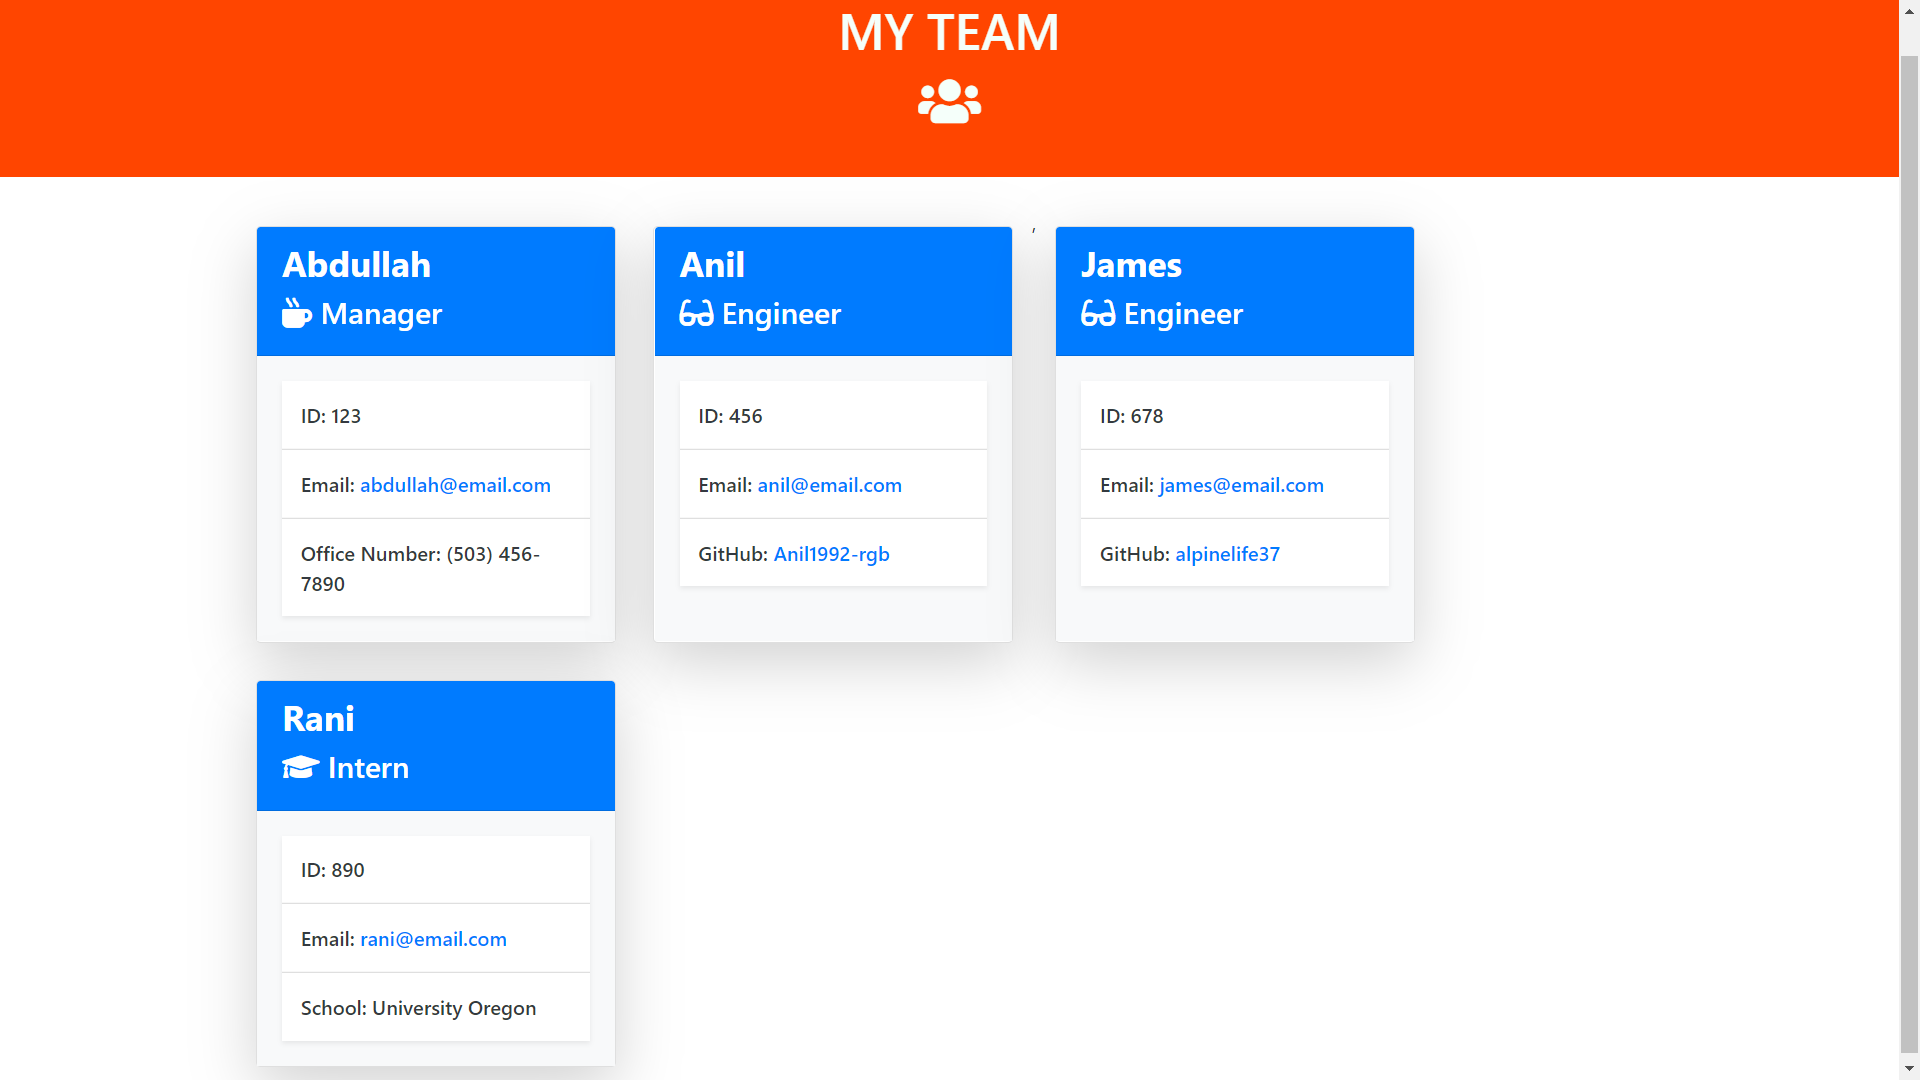
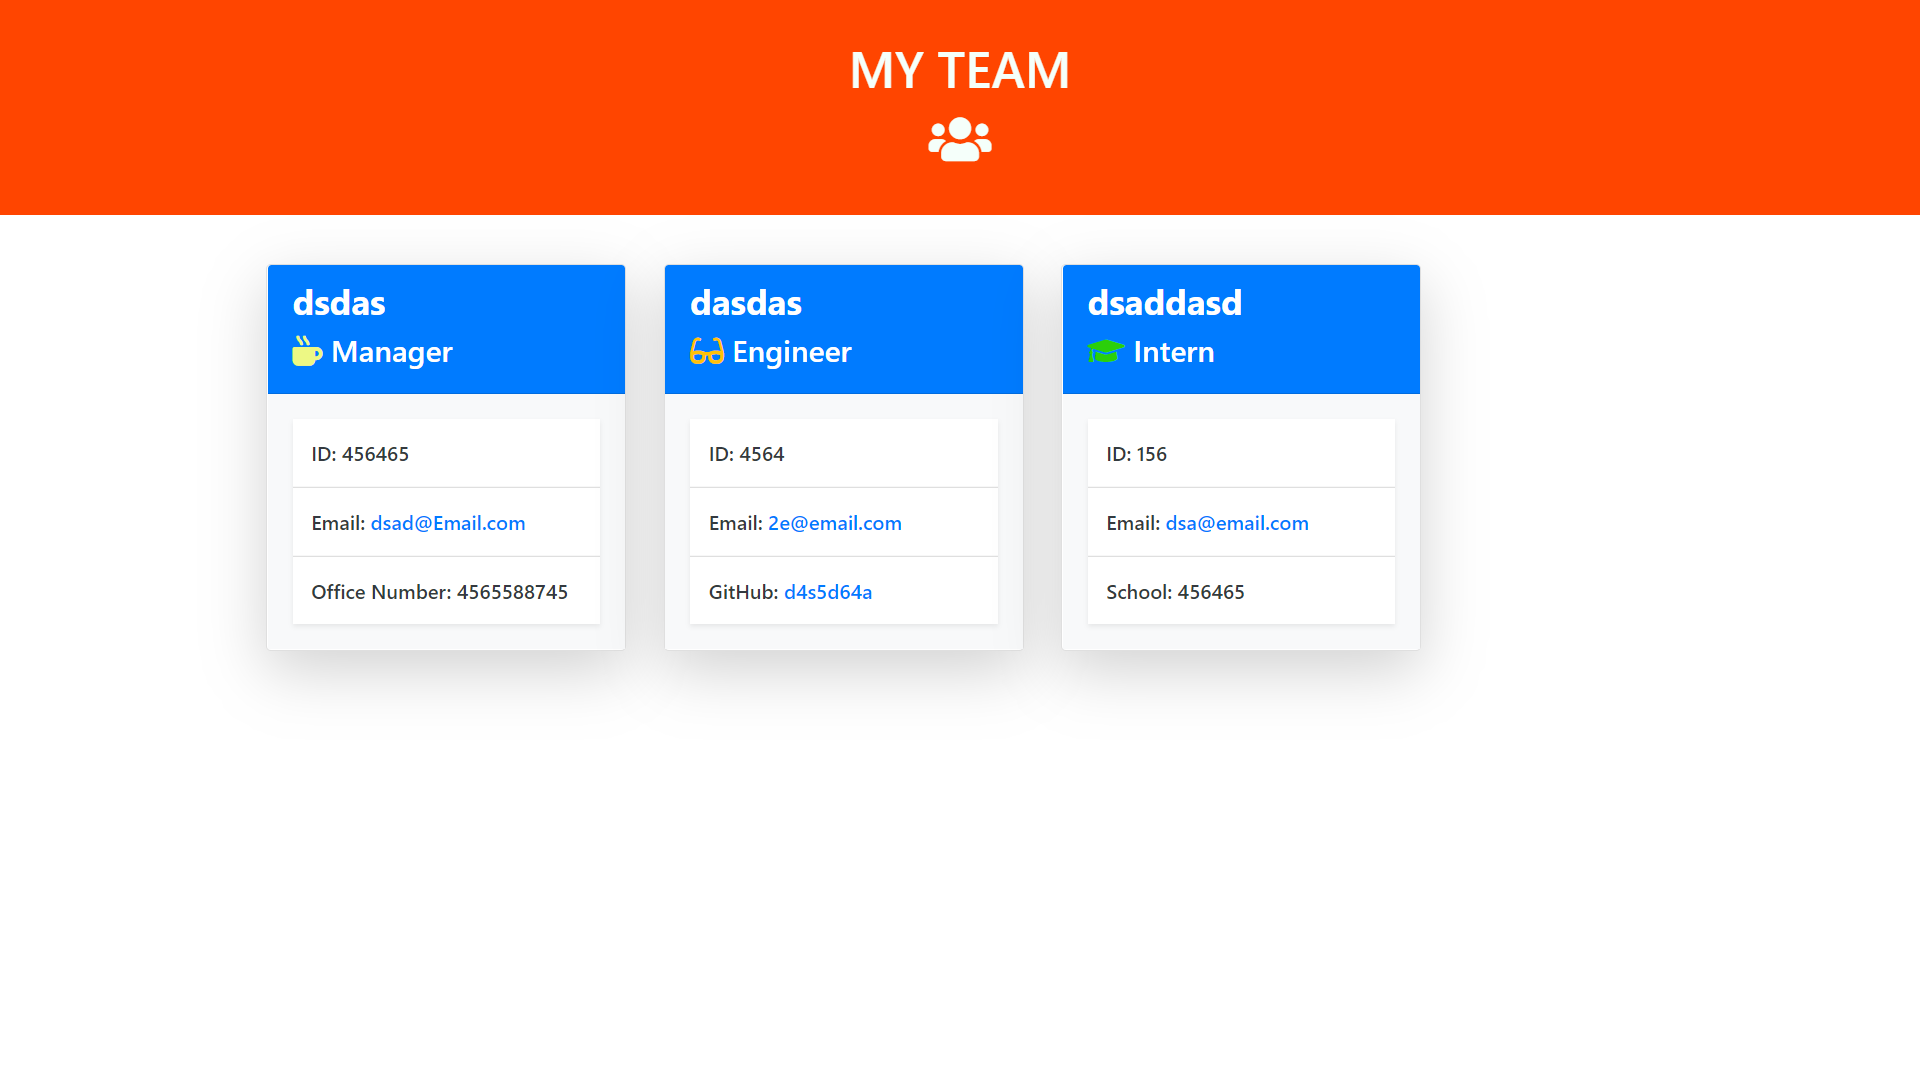
update

diff --git a/output/team.html b/output/team.html
@@ -54,44 +54,44 @@
   
           <div class="card text-white shadow-lg" style="max-width: 18rem;">
             <div class="card-header bg-primary">
-              <h3>dsdsa</h3>
-              <h4><i class="fas fa-mug-hot"></i> Manager</h4>
+              <h3>dsdas</h3>
+              <h4><i class="fas fa-mug-hot" style="color:rgb(237, 248, 132);"></i> Manager</h4>
             </div>
             <div class="card-body bg-light">
               <ul class="list-group list-group-flush text-dark shadow-sm">
-                <li class="list-group-item">ID: 456</li>
+                <li class="list-group-item">ID: 456465</li>
                 <!-- you can also use managerArray[0].getEmail() -->
-                <li class="list-group-item">Email: <a href="mailto: ed@email.com"
-                    target="_blank">ed@email.com</a></li>
+                <li class="list-group-item">Email: <a href="mailto: dsad@Email.com"
+                    target="_blank">dsad@Email.com</a></li>
                 <!-- you can also use managerArray[0].getOfficeNumber() -->
-                <li class="list-group-item">Office Number: 1234569878</li>
+                <li class="list-group-item">Office Number: 4565588745</li>
               </ul>
   
             </div>
           </div>
           <div class="card text-white shadow-lg" style="max-width: 18rem;">
       <div class="card-header bg-primary">
-        <h3>dasd</h3>
-        <h4><i class="fas fa-glasses"></i> Engineer</h4>
+        <h3>dasdas</h3>
+        <h4><i class="fas fa-glasses text-warning"></i> Engineer</h4>
       </div>
       <div class="card-body bg-light">
         <ul class="list-group list-group-flush text-dark shadow-sm">
-          <li class="list-group-item">ID: 564</li>
-          <li class="list-group-item">Email: <a href="mailto: em@email.com" target="_blank">em@email.com</a></li>
-          <li class="list-group-item">GitHub: <a href="https://github.com/dsadas" target="_blank">dsadas</a></li>          </ul>
+          <li class="list-group-item">ID: 4564</li>
+          <li class="list-group-item">Email: <a href="mailto: 2e@email.com" target="_blank">2e@email.com</a></li>
+          <li class="list-group-item">GitHub: <a href="https://github.com/d4s5d64a" target="_blank">d4s5d64a</a></li>          </ul>
 
       </div>
     </div>
           <div class="card text-white shadow-lg" style="max-width: 18rem;">
       <div class="card-header bg-primary">
-        <h3>dsasad</h3>
-        <h4><i class="fas fa-graduation-cap"></i> Intern</h4>
+        <h3>dsaddasd</h3>
+        <h4><i class="fas fa-graduation-cap" style="color:rgb(43, 207, 10);"></i> Intern</h4>
       </div>
       <div class="card-body bg-light">
         <ul class="list-group list-group-flush text-dark shadow-sm">
-          <li class="list-group-item">ID: 45645</li>
-          <li class="list-group-item">Email: <a href="mailto: em@rt.com" target="_blank">em@rt.com</a></li>
-          <li class="list-group-item">School: dsadsdsada</li>
+          <li class="list-group-item">ID: 156</li>
+          <li class="list-group-item">Email: <a href="mailto: dsa@email.com" target="_blank">dsa@email.com</a></li>
+          <li class="list-group-item">School: 456465</li>
         </ul>
 
       </div>

diff --git a/lib/loopandwrite.js b/lib/loopandwrite.js
@@ -9,7 +9,7 @@ const loopandwrite = (managerObject, internObject, engineerObject) => {
       return `<div class="card text-white shadow-lg" style="max-width: 18rem;">
       <div class="card-header bg-primary">
         <h3>${employee.name}</h3>
-        <h4><i class="fas fa-graduation-cap"></i> ${employee.getRole()}</h4>
+        <h4><i class="fas fa-graduation-cap" style="color:rgb(43, 207, 10);"></i> ${employee.getRole()}</h4>
       </div>
       <div class="card-body bg-light">
         <ul class="list-group list-group-flush text-dark shadow-sm">
@@ -27,7 +27,7 @@ const loopandwrite = (managerObject, internObject, engineerObject) => {
       return `<div class="card text-white shadow-lg" style="max-width: 18rem;">
       <div class="card-header bg-primary">
         <h3>${employee.name}</h3>
-        <h4><i class="fas fa-glasses"></i> ${employee.getRole()}</h4>
+        <h4><i class="fas fa-glasses text-warning"></i> ${employee.getRole()}</h4>
       </div>
       <div class="card-body bg-light">
         <ul class="list-group list-group-flush text-dark shadow-sm">

diff --git a/lib/generateHTML.js b/lib/generateHTML.js
@@ -58,7 +58,7 @@ const generateHTML = (managerArray, engineerCards, internCards) => {
           <div class="card text-white shadow-lg" style="max-width: 18rem;">
             <div class="card-header bg-primary">
               <h3>${managerArray[0].name}</h3>
-              <h4><i class="fas fa-mug-hot"></i> ${managerArray[0].getRole()}</h4>
+              <h4><i class="fas fa-mug-hot" style="color:rgb(237, 248, 132);"></i> ${managerArray[0].getRole()}</h4>
             </div>
             <div class="card-body bg-light">
               <ul class="list-group list-group-flush text-dark shadow-sm">

diff --git a/README.md b/README.md
@@ -20,7 +20,20 @@ ________________________________________________________________________________
 
 - fork and clone the repo
 - run npm install
-- run node app.js
+- run node app.js   
+
+**Validation**
+- this app also uses regex user validation
+- Employee name will only accept in Character a-z
+- Employee id will only accept numbers
+- employee email will accept most formats - the validation pattern is from the ASP.NET code base.
+- school and github will accecpt both characters and numbers.
+- manager office number will accept the following formats
+   - 123-456-7890
+   - (123) 456-7890
+   - 123 456 7890
+   - 123.456.7890
+   - +91 (123) 456-7890
 ____________________________________________________________________________________________________________________________________
 
 **GIF Demo**
